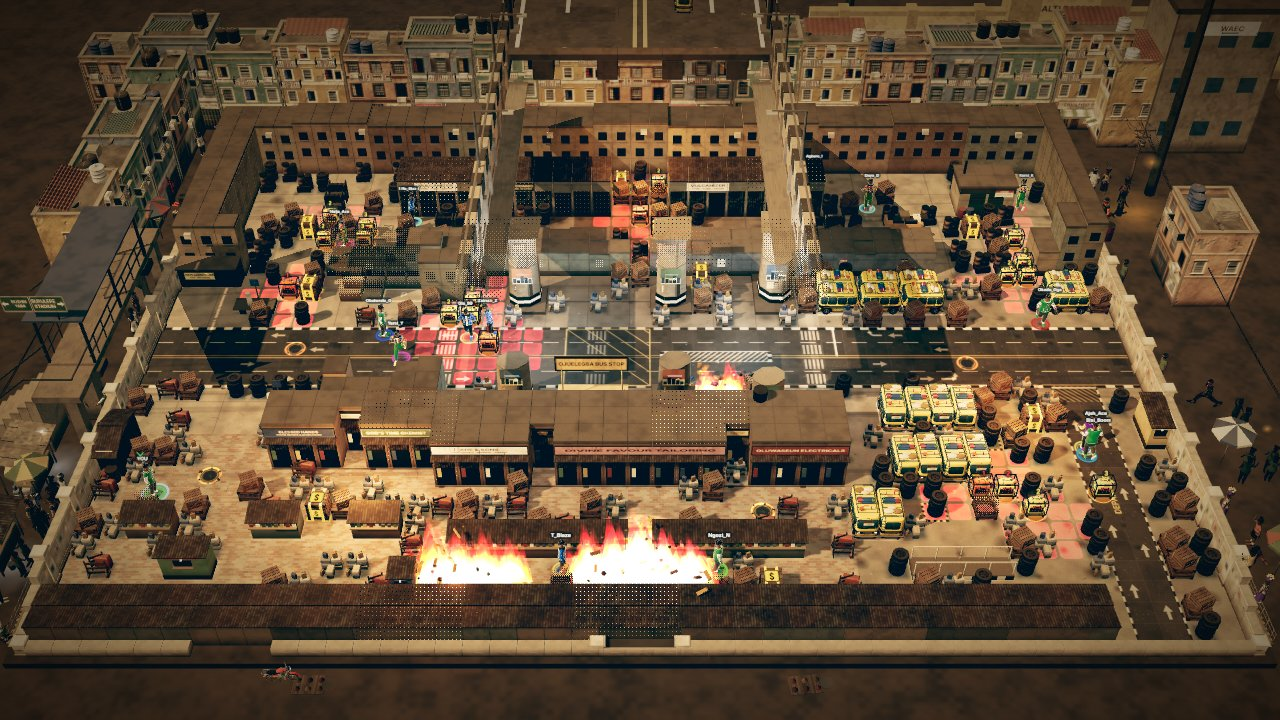
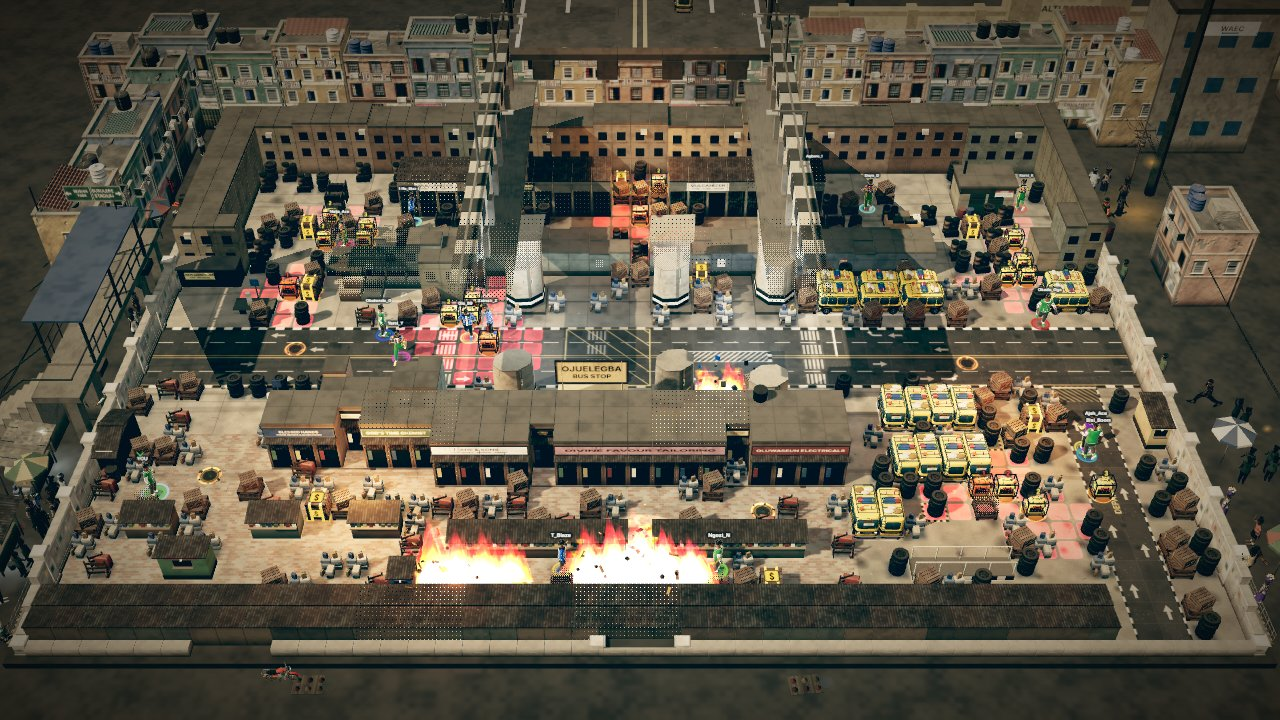
Ojuelegba final polish: dominant flyover edges and piers, cooler palette, readable bus-stop board
Presentation only: deeper, higher-contrast deck fascia and barrier, larger pale piers and hammerheads,
greyer light and fog, two-line OJUELEGBA / BUS STOP board, link-bridge sign moved to the north end of
its roof. No sim, layout, spawn, collision, hazard, combat or camera changes.

Claude-Session: https://claude.ai/code/session_01M8eJ1c5CNM8W8FC9P1Eqmf

diff --git a/src/render/arenas/ojuelegbaDeck.ts b/src/render/arenas/ojuelegbaDeck.ts
@@ -149,7 +149,7 @@ export function buildDeck(
   const zEnd = wz(DECK_END) + 0.5;
   const len = zEnd - zTop;
   const zc = (zTop + zEnd) / 2;
-  const tone = 0x9a9892; // soot concrete, cool grey (research palette #5E5A55, lit)
+  const tone = 0xb8b8b4; // soot concrete, cool grey (research palette #5E5A55, lit)
   const parts: BufferGeometry[] = [];
   const box = (w: number, h: number, d: number, x: number, y0: number, z: number, c: number): void => {
     parts.push(piece(new BoxGeometry(w, h, d), x, y0 + h / 2, z, c));
@@ -163,16 +163,16 @@ export function buildDeck(
     [xW, 1],
     [xE, -1],
   ] as const) {
-    box(0.5, 0.6, len, x, SOFFIT, zc, 0x6e6a64); // dark soffit band
-    box(0.46, FASCIA - 0.72, len, x, SOFFIT + 0.6, zc, tone); // main fascia
-    box(0.5, 0.12, len, x, DECK_TOP - 0.12, zc, 0xb4b0a8); // slab edge / coping, lighter
-    box(0.54, 0.05, len, x, SOFFIT + 0.57, zc, 0x3e3a36); // the dark drip line
-    box(1.1, 0.14, len, x + dir * 0.75, SOFFIT, zc, 0x7a766e); // soffit strip
+    box(0.8, 0.6, len, x, SOFFIT, zc, 0x3c3a38); // dark soffit band
+    box(0.8, FASCIA - 0.72, len, x, SOFFIT + 0.6, zc, tone); // main fascia
+    box(0.9, 0.12, len, x, DECK_TOP - 0.12, zc, 0xdcd8d0); // slab edge / coping, lighter
+    box(0.84, 0.05, len, x, SOFFIT + 0.57, zc, 0x242220); // the dark drip line
+    box(1.6, 0.14, len, x + dir * 0.95, SOFFIT, zc, 0x4a4844); // soffit strip
     for (let z = zTop + 1.2; z < zEnd - 0.6; z += 2.4)
-      box(0.14, FASCIA - 0.5, 0.36, x + dir * 0.3, SOFFIT + 0.45, z, 0x8a867e);
+      box(0.3, FASCIA - 0.5, 0.5, x + dir * 0.5, SOFFIT + 0.45, z, 0x5a5854);
     // barrier on the deck edge: pale concrete with a black block every other metre, steel rail above
-    box(0.5, 0.78, len, x, DECK_TOP, zc, 0xc8c4ba);
-    for (let z = zTop + 1; z < zEnd - 0.5; z += 2) box(0.54, 0.8, 1.0, x, DECK_TOP, z, 0x1c1c1c);
+    box(0.9, 0.78, len, x, DECK_TOP, zc, 0xe4e0d6);
+    for (let z = zTop + 1; z < zEnd - 0.5; z += 2) box(0.94, 0.8, 1.0, x, DECK_TOP, z, 0x141414);
     box(0.09, 0.09, len, x, DECK_TOP + 1.1, zc, 0x5a5c58);
     for (let z = zTop + 1.5; z < zEnd; z += 3) box(0.08, 0.34, 0.08, x, DECK_TOP + 0.78, z, 0x5a5c58);
     // lamp standards with a swept arm over the carriageway, every 9 m
@@ -190,11 +190,11 @@ export function buildDeck(
     const shaft = SOFFIT - 0.5 - PIER_CUT;
     parts.push(
       piece(
-        new CylinderGeometry(0.74, 0.74, shaft, 8),
+        new CylinderGeometry(0.94, 0.94, shaft, 8),
         cx,
         PIER_CUT + shaft / 2,
         cz,
-        0xa8a090,
+        0xd2ccbe,
         Math.PI / 8,
         1,
         0.82 * (deep > 2 ? 1.4 : 1),
@@ -202,7 +202,7 @@ export function buildDeck(
     );
     // the hammerhead flaring out under the deck
     parts.push(
-      piece(new CylinderGeometry(1.3, 0.78, 0.5, 4), cx, SOFFIT - 0.25, cz, 0xa29a8a, Math.PI / 4, 1, 0.9),
+      piece(new CylinderGeometry(1.55, 0.98, 0.6, 4), cx, SOFFIT - 0.3, cz, 0xc8c2b4, Math.PI / 4, 1, 0.9),
     );
   }
   // no east-west crossheads over the board: seen from the camera they would lie across the frame and hide

diff --git a/src/render/arenas/ojuelegbaCover.ts b/src/render/arenas/ojuelegbaCover.ts
@@ -335,14 +335,14 @@ function pier(k: Kit, g: number, grp: CoverGroup, n: number): void {
   const deep = grp.y1 - grp.y0 + 1;
   const zs = 0.82 * (deep > 2 ? 1.4 : 1);
   // tonal variation per pier: some recently repaired / painted, some weathered
-  const tone = pick([0xb6ae9e, 0xa8a294, 0xc0b8a8], n);
+  const tone = pick([0xd0cabc, 0xc2bcb0, 0xdad6ca], n);
   box(k, g, k.concrete, 1.94, 0.16, deep - 0.06, cx, 0, cz, 0x7e786e); // footing, stained
   box(k, g, k.paint, 2.0, 0.03, deep, cx, 0, cz, 0x2e2a24); // the wet ring round it
   // the column stub up to the cut (the overhead, ojuelegbaDeck.ts, carries it on to the deck)
   const shaft = PIER_CUT - 0.16;
   k.b.add(
     g,
-    new CylinderGeometry(0.74, 0.8, shaft, 8),
+    new CylinderGeometry(0.9, 0.96, shaft, 8),
     k.concrete,
     at(cx, 0.16 + shaft / 2, cz, Math.PI / 8, 0, 0, 1, 1, zs),
     tone,
@@ -351,7 +351,7 @@ function pier(k: Kit, g: number, grp: CoverGroup, n: number): void {
   for (let i = 0; i < 3; i++)
     k.b.add(
       g,
-      new CylinderGeometry(0.815, 0.815, 0.2, 8),
+      new CylinderGeometry(0.975, 0.975, 0.2, 8),
       k.paint,
       at(cx, 0.2 + i * 0.2 + 0.1, cz, Math.PI / 8, 0, 0, 1, 1, zs),
       i % 2 ? 0xd8d4c8 : 0x1c1c1c,
@@ -429,9 +429,9 @@ function busStop(k: Kit, g: number, grp: CoverGroup): void {
   // the big yellow name board standing on the roof on two posts, facing the camera
   // (high enough to read over the shop row's roofs, which stand between it and the camera)
   for (const dx of [-w / 2 + 0.2, w / 2 - 0.2])
-    cyl(k, g, k.metal, 0.04, 0.04, 2.0, cx + dx, 1.98, cz + 0.4, YELLOW, 6);
-  box(k, g, k.metal, w + 0.15, 0.78, 0.06, cx, 3.62, cz + 0.4, 0x2a2a28);
-  board(k, g, k.atlas.board('busStop', 512, 128, BUS_STOP_BOARD), w + 0.05, 0.68, cx, 4.01, cz + 0.44);
+    cyl(k, g, k.metal, 0.04, 0.04, 2.2, cx + dx, 1.98, cz + 0.4, YELLOW, 6);
+  box(k, g, k.metal, w + 0.15, 1.3, 0.06, cx, 2.9, cz + 0.4, 0x16140f);
+  board(k, g, k.atlas.board('busStop', 512, 224, BUS_STOP_BOARD), w + 0.05, 1.2, cx, 3.55, cz + 0.44);
 }
 
 // ------------------------------------------------------------------------------------ the park

diff --git a/src/render/arenas/rumbleOjuelegbaArt.ts b/src/render/arenas/rumbleOjuelegbaArt.ts
@@ -47,18 +47,18 @@ const JOINT_Y = [6, 13, 20];
 export const RUMBLE_OJUELEGBA_LOOK: ArenaLook = {
   // late afternoon: a low amber sun from the west and long shadows under the deck, in clear dusty air - the
   // flyover and the skyline beyond the board stay readable from the whole-arena view (identity pass)
-  sky: 0xb8a47e,
-  fog: { color: 0xc4b498, near: 60, far: 240 },
-  sun: { color: 0xffcf98, intensity: 4.7, position: [-16, 17, 9] },
-  hemi: { sky: 0xe2caa8, ground: 0x7a6858, intensity: 1.35 },
+  sky: 0xa8a290,
+  fog: { color: 0xb8b8b0, near: 60, far: 240 },
+  sun: { color: 0xffe6c4, intensity: 4.7, position: [-16, 17, 9] },
+  hemi: { sky: 0xdcd8d0, ground: 0x6e6a64, intensity: 1.35 },
   envIntensity: 0.5,
   exposure: 1.3,
-  floorTint: 0xb8ac9a,
-  pillarTint: 0xc4bcae,
+  floorTint: 0xbab6aa,
+  pillarTint: 0xd4d0c8,
   softTint: 0xc4b6a6,
   slab: 0x6a6258,
-  street: 0x4a4238,
-  grit: { tone: 0x7a644c, dirt: 0x584a3a, dust: 0x8e7a62 },
+  street: 0x42413e,
+  grit: { tone: 0x6c6458, dirt: 0x4c463c, dust: 0x8a8478 },
   // light pockets per district (world x, y, z): LED tubes under the deck (west and east of the pier court),
   // a sodium lamp over the bus pocket, bulbs in the shop lane, a lamp over the workshops
   lamps: [

diff --git a/src/render/arenas/ojuelegbaLandmarks.ts b/src/render/arenas/ojuelegbaLandmarks.ts
@@ -434,10 +434,10 @@ export function linkBridge(ctx: SetContext): void {
       s.add(stringer);
     }
   }
-  // the direction board standing on the roof's south end, facing the camera: every destination in one place
+  // the direction board standing on the roof's north end, facing the camera: every destination in one place
   if (hasDom()) {
     for (const dx of [-1.8, 1.8])
-      s.add(cyl(0.04, 0.04, 1.3, P.steel, x - 1.5 + dx, deckY + 3.15, zS + 0.05, 6));
+      s.add(cyl(0.04, 0.04, 1.3, P.steel, x - 1.5 + dx, deckY + 3.15, zN + 0.05, 6));
     const tex = directionTexture(
       'ojuelegba:bridge',
       1280,
@@ -448,7 +448,7 @@ export function linkBridge(ctx: SetContext): void {
       ],
       31,
     );
-    board(ctx, tex, 2.6, 0.85, x - 0.5, deckY + 3.45, zS + 0.1); // shifted west so it stays off the board
+    board(ctx, tex, 2.6, 0.85, x - 0.5, deckY + 3.45, zN + 0.1); // north end of the roof: nearer the frame centre; west so it stays off the board
   }
 }
 

diff --git a/tests/render/ojuelegba-cover.test.ts b/tests/render/ojuelegba-cover.test.ts
@@ -104,7 +104,7 @@ describe('Ojuelegba board cover', () => {
         const x = pos.getX(i);
         const z = pos.getZ(i);
         expect(covered(x, z), `vertex ${x.toFixed(2)},${pos.getY(i).toFixed(2)},${z.toFixed(2)}`).toBe(true);
-        expect(pos.getY(i)).toBeLessThan(4.5); // the far perimeter buildings and the raised bus-stop name board (about 4.4 m) are the tallest cover
+        expect(pos.getY(i)).toBeLessThan(4.5); // the far perimeter buildings and the raised bus-stop name board (about 4.2 m) are the tallest cover
       }
     }
   });

diff --git a/src/render/arenas/ojuelegbaSigns.ts b/src/render/arenas/ojuelegbaSigns.ts
@@ -292,7 +292,10 @@ export const BUS_STOP_BOARD: BoardSpec = {
   bg: '#e4b42a',
   fg: '#16140f',
   // the interchange's name, the stage's focal landmark (identity pass): painted bus-stop yellow, black lettering
-  lines: [['OJUELEGBA BUS STOP', 50]],
+  lines: [
+    ['OJUELEGBA', 72],
+    ['BUS STOP', 56],
+  ],
   border: '#16140f',
 };
 
